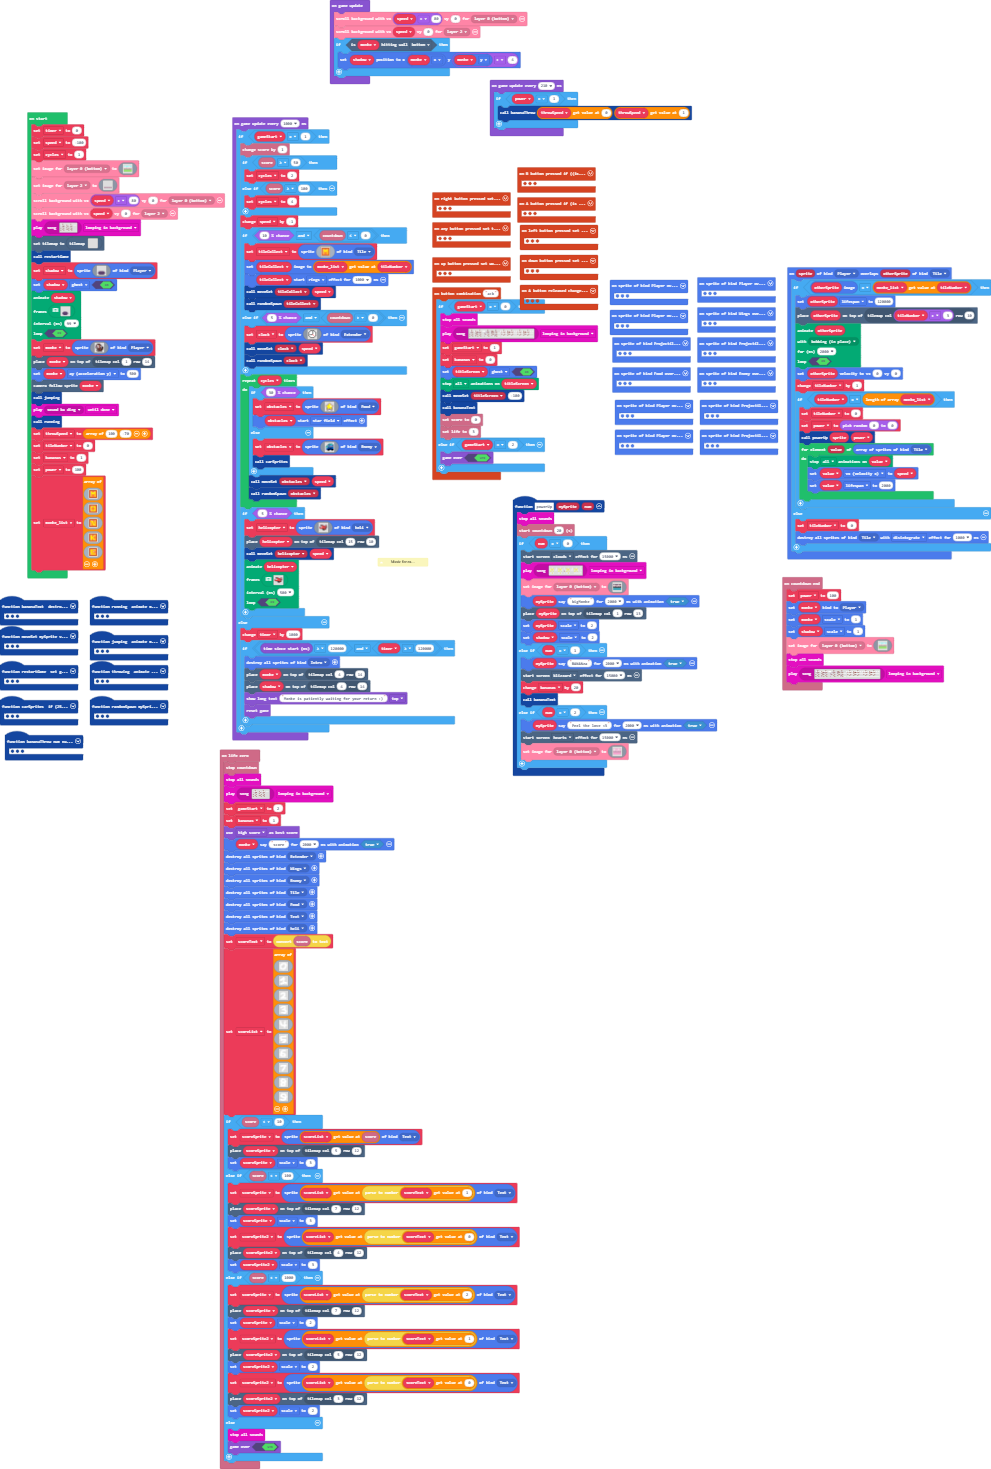
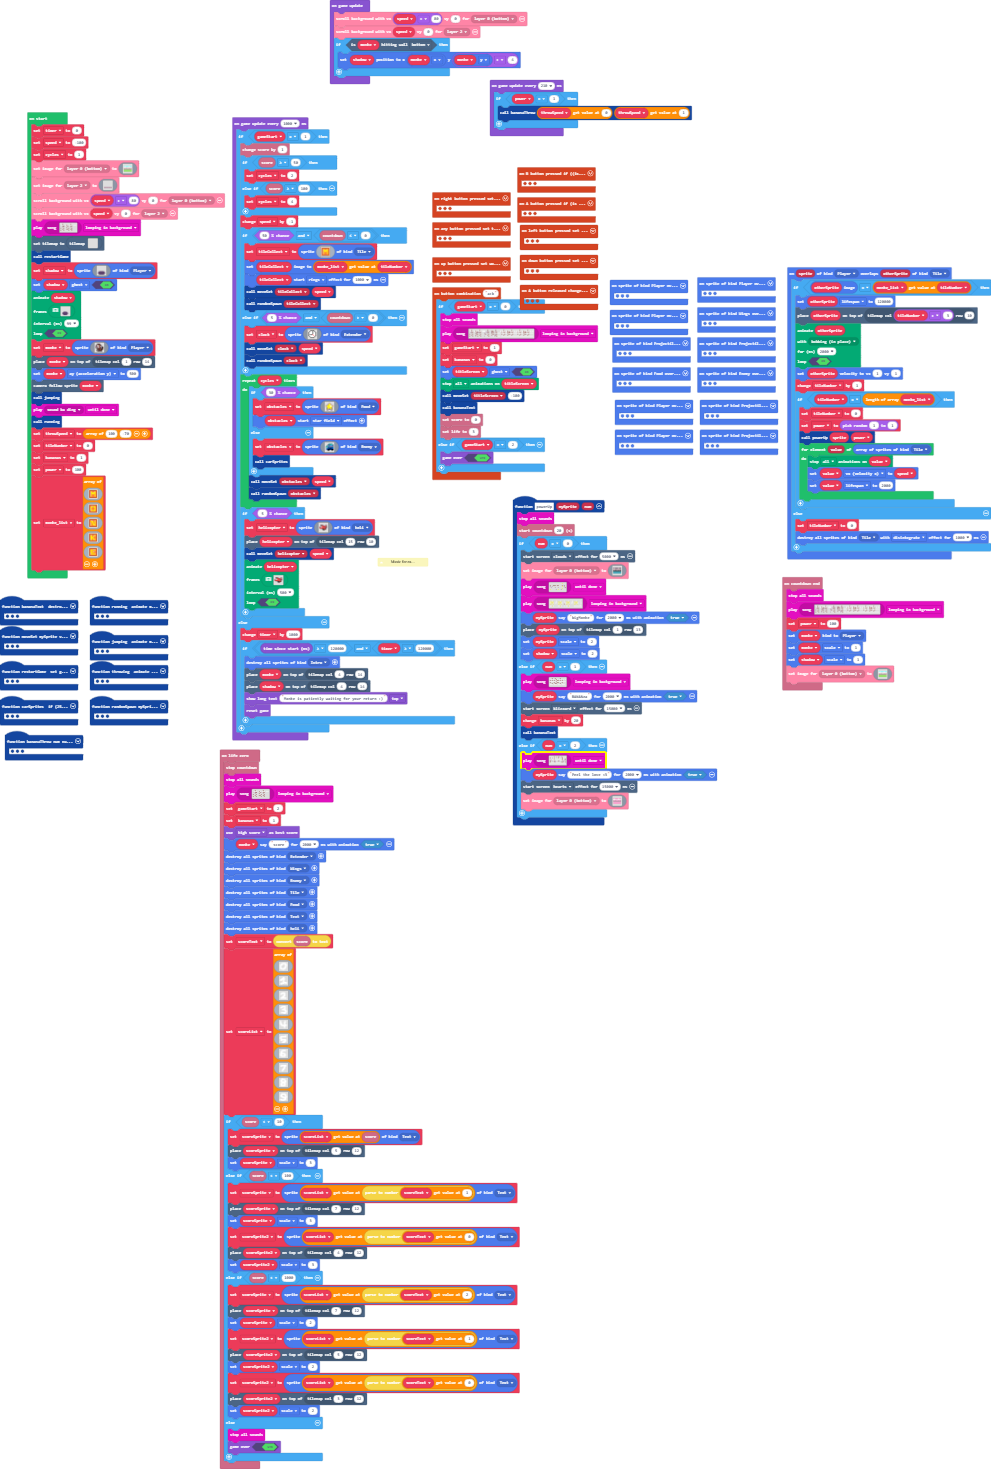
all music

Changed region(s): [[0.5146, 0.3676, 0.7265, 0.582], [0.7871, 0.3982, 0.9687, 0.4901]]

diff --git a/main.ts b/main.ts
@@ -674,6 +674,8 @@ function moveSet (mySprite: Sprite, velocity: number) {
     mySprite.lifespan = 3000
 }
 info.onCountdownEnd(function () {
+    music.stopAllSounds()
+    music.play(music.createSong(assets.song`in game`), music.PlaybackMode.LoopingInBackground)
     power2 = 100
     monke.setKind(SpriteKind.Player)
     monke.scale = 1
@@ -800,8 +802,6 @@ info.onCountdownEnd(function () {
         7777777777777777777777777777777777777777777777777777777777777777777777777777777777777777777777777777777777777777777777777777777777777777777777777777777777777777
         7777777777777777777777777777777777777777777777777777777777777777777777777777777777777777777777777777777777777777777777777777777777777777777777777777777777777777
         `)
-    music.stopAllSounds()
-    music.play(music.createSong(assets.song`in game`), music.PlaybackMode.LoopingInBackground)
 })
 sprites.onOverlap(SpriteKind.Projectile, SpriteKind.Intro, function (sprite, otherSprite) {
     otherSprite.startEffect(effects.confetti, 100)
@@ -887,8 +887,7 @@ function powerUp (mySprite: Sprite, num: number) {
     music.stopAllSounds()
     info.startCountdown(20)
     if (num == 0) {
-        effects.clouds.startScreenEffect(15000)
-        music.play(music.createSong(assets.song`NLU`), music.PlaybackMode.LoopingInBackground)
+        effects.clouds.startScreenEffect(5000)
         scroller.setLayerImage(scroller.BackgroundLayer.Layer0, img`
             cccccccccccccccccccccccccccccccccccccccccccccccccccccccccccccccccccccccccccccccccccccccccccccccccccccccccccccccccccccccccccccccccccccccccccccccccccccccccccccccc
             cccccccccccccccccccccccccccccccccccccccccccccccccccccccccccccccccccccccccccccccccccccccccccccccccccccccccccccccccccccccccccccccccccccccccccccccccccccccccccccccc
@@ -1011,16 +1010,20 @@ function powerUp (mySprite: Sprite, num: number) {
             6666666666666666666666666666666666666666666666666666666666666666666666666666666666666666666666666666666666666666666666666666666666666666666666666666666666666666
             6666666666666666666666666666666666666666666666666666666666666666666666666666666666666666666666666666666666666666666666666666666666666666666666666666666666666666
             `)
[1 lines of base64/hex data omitted]
+        music.play(music.createSong(assets.song`NLU`), music.PlaybackMode.LoopingInBackground)
         mySprite.sayText("bigMonke", 2000, true)
         tiles.placeOnTile(mySprite, tiles.getTileLocation(1, 13))
         mySprite.scale = 2
         shadow.scale = 2
     } else if (num == 1) {
[1 lines of base64/hex data omitted]
         mySprite.sayText("BANANza", 2000, true)
         effects.blizzard.startScreenEffect(15000)
         bananas += 20
         bananaText()
     } else if (num == 2) {
[1 lines of base64/hex data omitted]
         mySprite.sayText("Peel the love <3", 2000, true)
         effects.hearts.startScreenEffect(15000)
         scroller.setLayerImage(scroller.BackgroundLayer.Layer0, img`
@@ -1611,11 +1614,11 @@ sprites.onOverlap(SpriteKind.Player, SpriteKind.Tile, function (sprite, otherSpr
         2000,
         true
         )
-        otherSprite.setVelocity(0, 0)
+        otherSprite.setVelocity(1, 1)
         tileNumber += 1
         if (tileNumber == monke_list.length) {
             tileNumber = 0
-            power2 = randint(0, 0)
+            power2 = randint(1, 1)
             powerUp(sprite, power2)
             for (let value of sprites.allOfKind(SpriteKind.Tile)) {
                 animation.stopAnimation(animation.AnimationTypes.All, value)
@@ -2480,7 +2483,7 @@ game.onUpdateInterval(1000, function () {
             cycles = 4
         }
         speed += -1
-        if (Math.percentChance(10) && info.countdown() <= 0) {
+        if (Math.percentChance(50) && info.countdown() <= 0) {
             tileCollect = sprites.create(img`
                 4 4 4 4 4 4 4 4 4 4 4 4 4 4 4 4 
                 4 e e e e e e e e e e e e e e 4 
